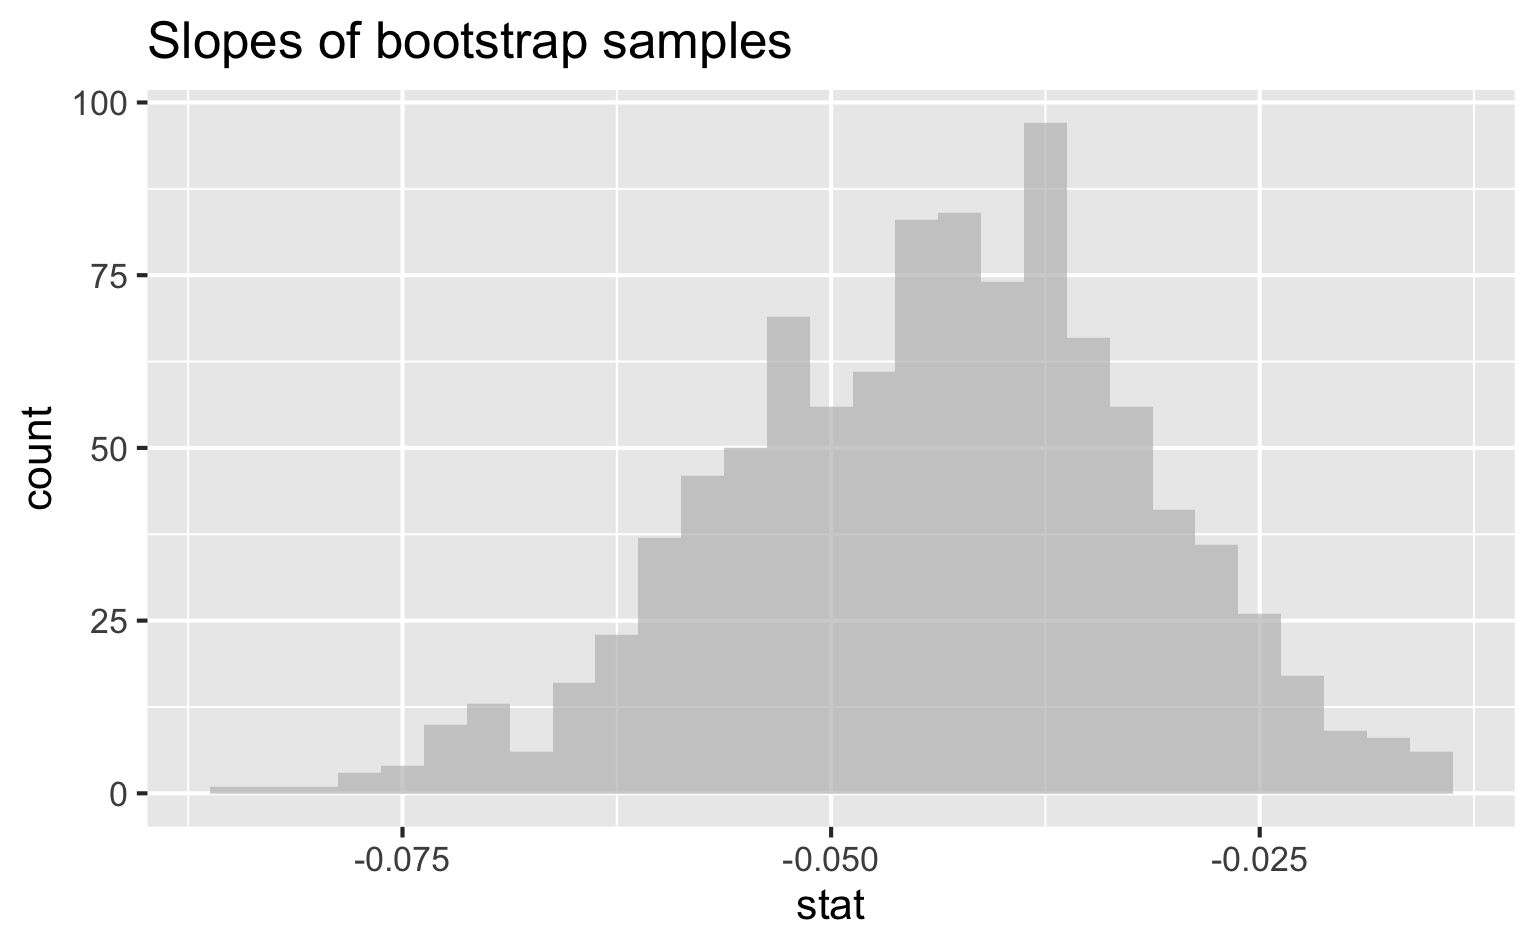
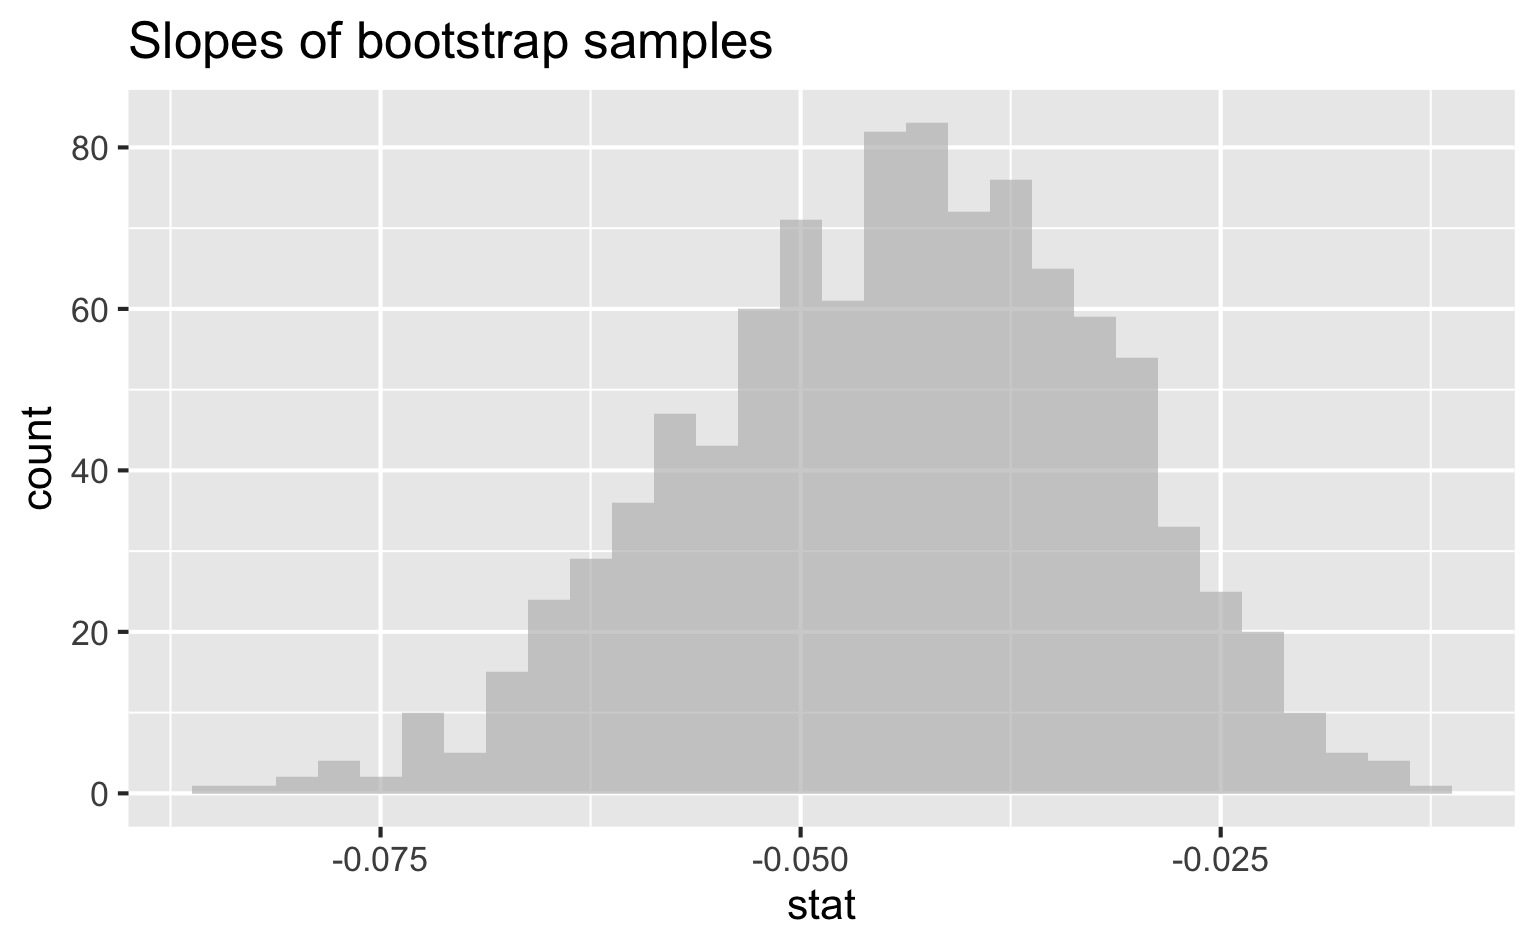
Edits during recording

diff --git a/_site/slides/4-1-1-quantifying-uncertainty/4-1-1-quantifying-uncertainty.html b/_site/slides/4-1-1-quantifying-uncertainty/4-1-1-quantifying-uncertainty.html
@@ -295,8 +295,14 @@
 </section></section><section><section id="inference" class="title-slide slide level1 center"><h1>Inference</h1>
 
 </section><section id="statistical-inference" class="slide level2"><h2>Statistical inference</h2>
-<p>… is the process of using sample data to make conclusions about the underlying population the sample came from</p>
-<p><img data-src="images/photo-1571942676516-bcab84649e44.png"></p>
+<ul>
+<li>Statistical inference provides methods and tools so we can use the single observed sample to make valid statements (inferences) about the population it comes from.</li>
+<li>For our inferences to be valid, the sample should be random and representative of the population we’re interested in.</li>
+</ul>
+<div class="quarto-figure quarto-figure-center">
+<figure><p><img data-src="images/photo-1571942676516-bcab84649e44.png" class="quarto-figure quarto-figure-center" width="700"></p>
+</figure>
+</div>
 </section><section id="estimation" class="slide level2"><h2>Estimation</h2>
 <p>So far we have done lots of estimation (mean, median, slope, etc.), i.e. - used data from samples to calculate sample statistics - which can then be used as estimates for population parameters</p>
 </section><section id="spear-or-net" class="slide level2"><h2>Spear or net?</h2>
@@ -332,7 +338,7 @@
 <li class="fragment"><p>In order to construct a confidence interval we need to quantify the variability of our sample statistic</p></li>
 <li class="fragment"><p>For example, if we want to construct a confidence interval for a population slope, we need to come up with a plausible range of values around our observed sample slope</p></li>
 <li class="fragment"><p>This range will depend on how precise and how accurate our sample mean is as an estimate of the population mean</p></li>
-<li class="fragment"><p>Quantifying this requires a measurement of how much we would expect the sample population to vary from sample to sample</p></li>
+<li class="fragment"><p>Quantifying this requires a measurement of how much we would expect the sample statistic to vary from sample to sample</p></li>
 </ul></section><section id="sample-to-sample" class="slide level2"><h2>Sample to sample…</h2>
 <div class="columns">
 <div class="column" style="width:70%;">
@@ -511,10 +517,10 @@
 <pre><code># A tibble: 1 × 2
   lower_ci upper_ci
      &lt;dbl&gt;    &lt;dbl&gt;
-1  -0.0705  -0.0217</code></pre>
+1  -0.0684  -0.0222</code></pre>
 </div>
 </div>
-<p><strong>We are 95% confident that</strong> for each additional $1,000 of family income, we would expect students to receive $70.48 to $21.68 less in gift aid, on average.</p>
+<p><strong>We are 95% confident that</strong> for each additional $1,000 of family income, we would expect students to receive $68.41 to $22.23 less in gift aid, on average.</p>
 
 
 </section></section>

diff --git a/_site/index.html b/_site/index.html
@@ -476,7 +476,7 @@ Title
 </td>
 
 </tr>
-<tr data-index="10" data-listing-file-modified-sort="1755281726195" data-listing-reading-time-sort="12" data-listing-word-count-sort="2209" data-listing-title-sort="Quantifying uncertainty" data-listing-filename-sort="4-1-1-quantifying-uncertainty.qmd">
+<tr data-index="10" data-listing-file-modified-sort="1755285396121" data-listing-reading-time-sort="12" data-listing-word-count-sort="2236" data-listing-title-sort="Quantifying uncertainty" data-listing-filename-sort="4-1-1-quantifying-uncertainty.qmd">
 <td>
 <a href="./slides/4-1-1-quantifying-uncertainty/4-1-1-quantifying-uncertainty.html" class="title listing-title">Quantifying uncertainty</a>
 </td>
